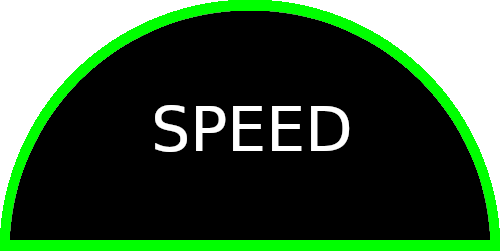
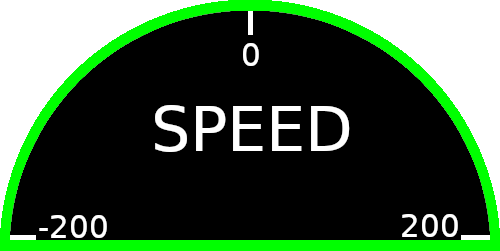
marche arriere

diff --git a/MachineSousLEau/Submarine.cpp b/MachineSousLEau/Submarine.cpp
@@ -6,6 +6,9 @@ Submarine::Submarine(sf::Vector2f pos)
 	ScreenPosition = pos;
 	AccelerationSpeed = (0.1);
 
+	MaxMotorLevel = 3;
+	MinMotorLevel = -1;
+	motorLevel = 0;
 
 	Sub = new sf::RectangleShape(sf::Vector2f(54,30));
 	Sub->setFillColor(sf::Color::Red);
@@ -33,12 +36,24 @@ float Submarine::getRotation() const
 
 float Submarine::getSpeed() const
 {
-	return sqrt(Velocity.x * Velocity.x + Velocity.y * Velocity.y);
+	float dist = sqrt(Velocity.x * Velocity.x + Velocity.y * Velocity.y);
+	if (atan2f(-Velocity.y, -Velocity.x) * 180 / 3.1415 >= Rotation - 80 && atan2f(-Velocity.y, -Velocity.x) * 180 / 3.1415 <= Rotation + 80) return dist;
+	else return -dist;
 }
 
 int Submarine::getMotorLevel() const
 {
 	return motorLevel;
+}
+
+int Submarine::getMinMotorLevel() const
+{
+	return MinMotorLevel;
+}
+
+int Submarine::getQteMotorLevel() const
+{
+	return MaxMotorLevel-MinMotorLevel;
 }
 
 
@@ -60,7 +75,7 @@ void Submarine::resetVelocity()
 
 void Submarine::upgradeMotorLevel()
 {
-	if (motorLevel < 3)
+	if (motorLevel < MaxMotorLevel)
 	{
 		motorLevel++;
 		setSpeedPower();
@@ -69,7 +84,7 @@ void Submarine::upgradeMotorLevel()
 
 void Submarine::reduceMotorLevel()
 {
-	if (motorLevel > 0)
+	if (motorLevel > MinMotorLevel)
 	{
 		motorLevel--;
 		setSpeedPower();
@@ -78,7 +93,7 @@ void Submarine::reduceMotorLevel()
 
 void Submarine::setSpeedPower()
 {
-	speedPower = (1.f / 3.f) * motorLevel;
+	speedPower = (1.f / MaxMotorLevel) * motorLevel;
 }
 
 void Submarine::setCoordinate(sf::Vector2f coord)

diff --git a/MachineSousLEau/GameManager.cpp b/MachineSousLEau/GameManager.cpp
@@ -308,16 +308,16 @@ void GameManager::UpdateSonar()
 void GameManager::UpdateSpeedCursor()
 {
     float speed = Player->getSpeed();
-    float percent = speed / 200;
+    float percent = speed / 400;
 
-    SpeedCursor->setRotation(percent * 180 -180);
+    SpeedCursor->setRotation(percent * 180 -90);
 }
 
 void GameManager::UpdateMotorLevelCursor()
 {
-    int motorLevel = Player->getMotorLevel();
+    int motorLevel = Player->getMotorLevel() - Player->getMinMotorLevel();
 
-    MotorPowerCursor->setPosition(MotorPower->getPosition().x + MotorPower->getSize().x / 3 * motorLevel, MotorPowerCursor->getPosition().y);
+    MotorPowerCursor->setPosition(MotorPower->getPosition().x + MotorPower->getSize().x / Player->getQteMotorLevel() * motorLevel, MotorPowerCursor->getPosition().y);
 }
 
 void GameManager::SpawnEnemie()

diff --git a/MachineSousLEau/Submarine.h b/MachineSousLEau/Submarine.h
@@ -11,6 +11,8 @@ private:
 	float Rotation;
 	float AccelerationSpeed;
 	int motorLevel;
+	int MaxMotorLevel;
+	int MinMotorLevel;
 	float speedPower;
 
 	int torpedoCount;
@@ -25,6 +27,8 @@ public:
 	float getRotation() const;
 	float getSpeed() const;
 	int getMotorLevel() const;
+	int getMinMotorLevel() const;
+	int getQteMotorLevel() const;
 
 	void addVelocity(sf::Vector2f);
 	void addRotation(float);
